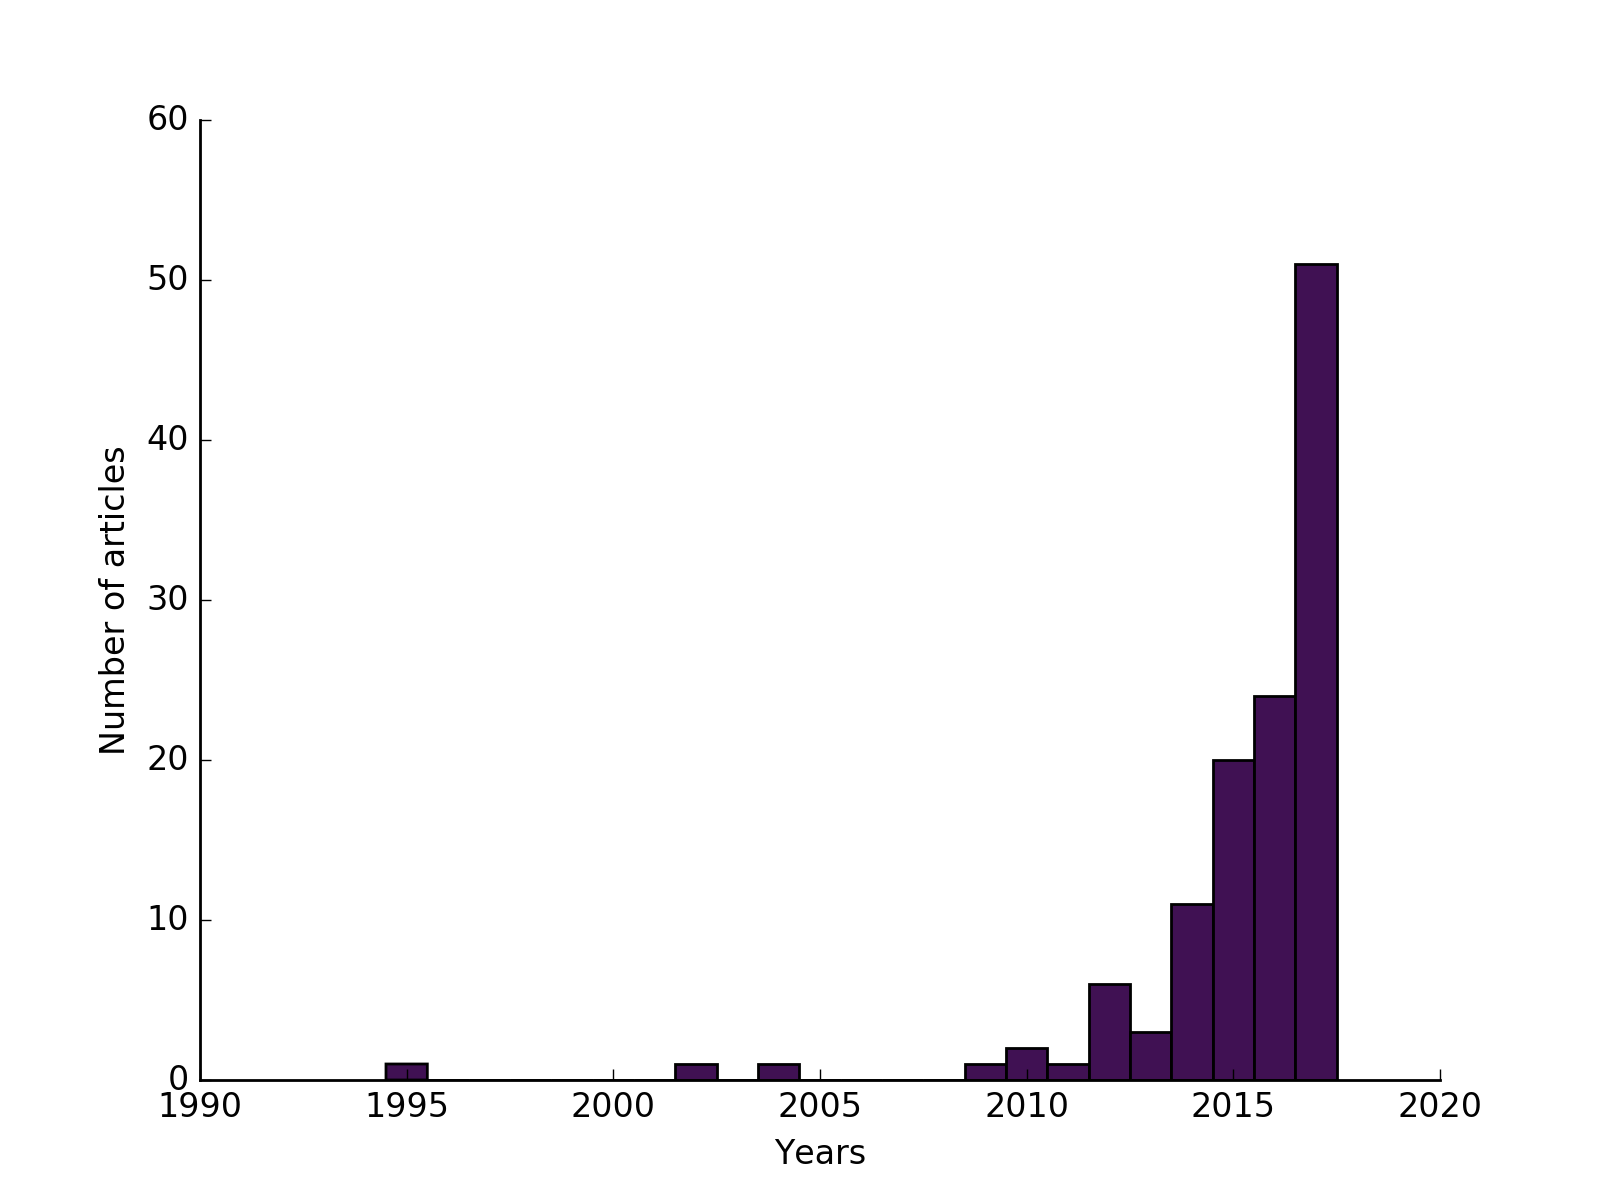
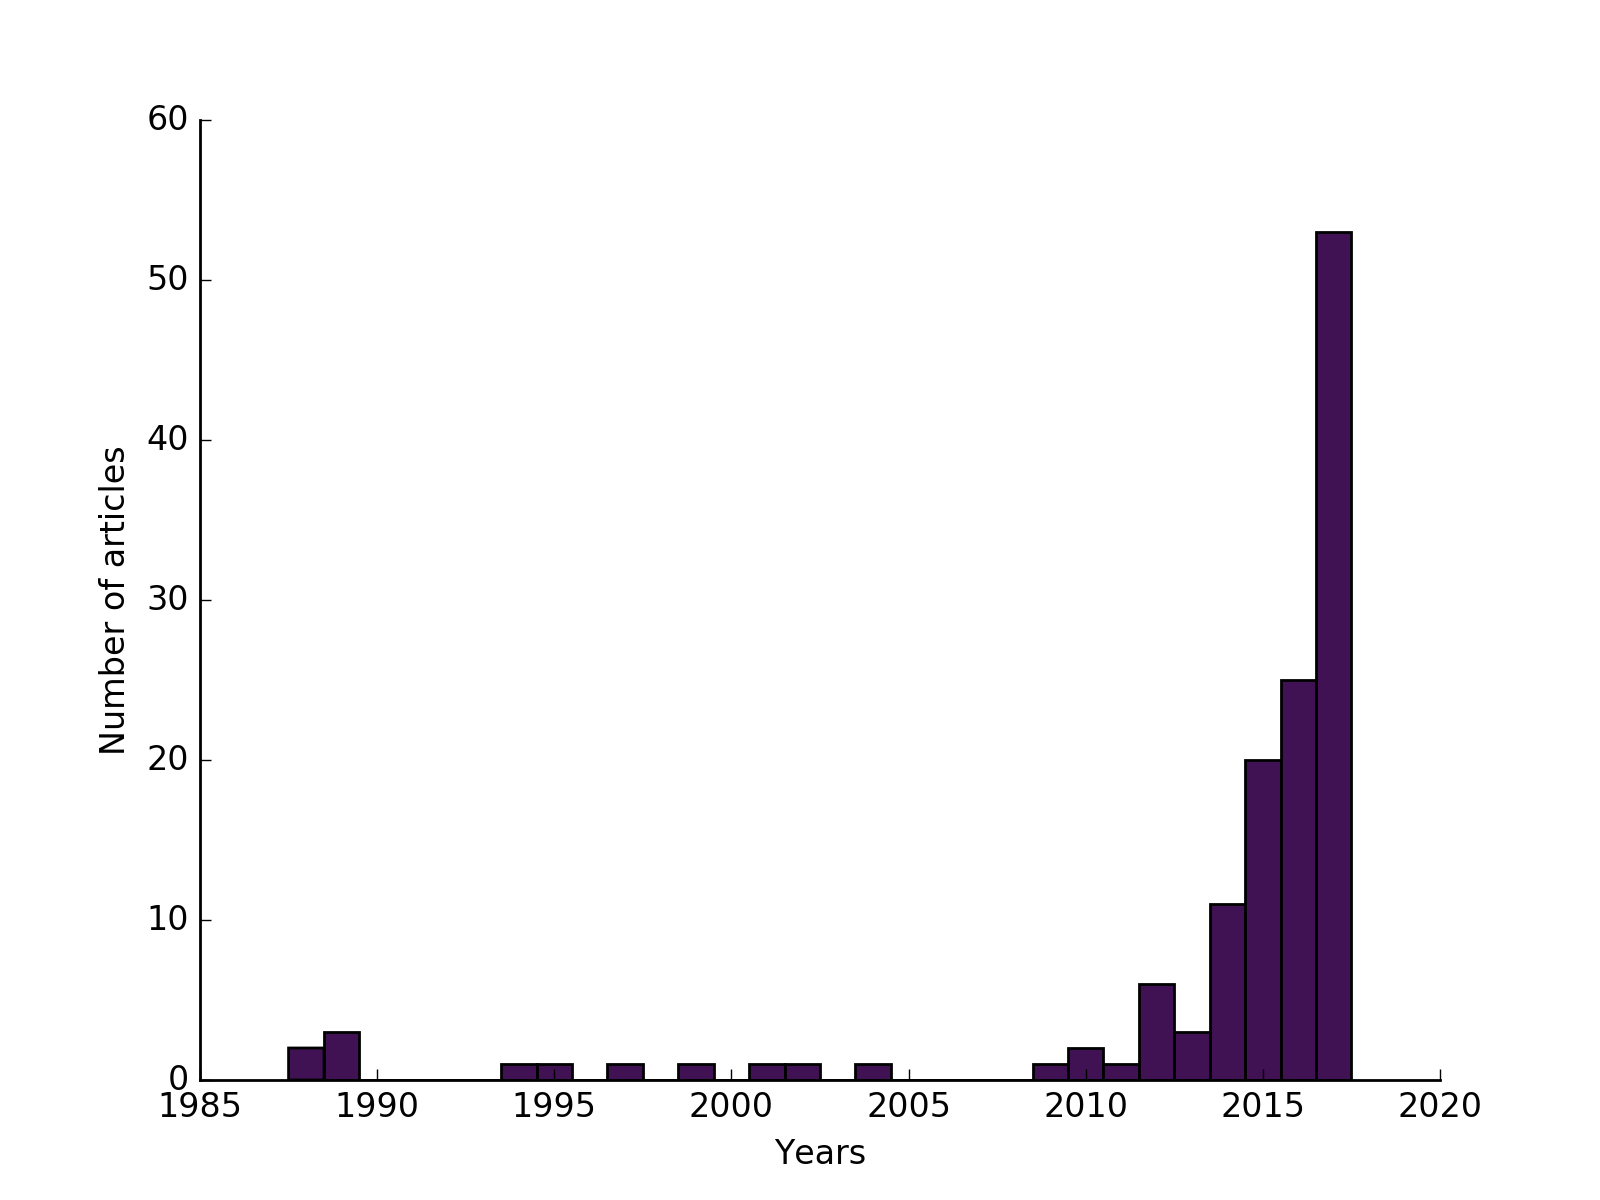
Added 12 ref

diff --git a/README.md b/README.md
@@ -39,6 +39,7 @@ However, these surveys do not cover music information retrieval tasks that are i
 | [Basic Filters for Convolutional Neural Networks: Training or Design?](https://arxiv.org/pdf/1709.02291.pdf) | No |
 | [Music signal processing using vector product neural networks](http://dorienherremans.com/dlm2017/papers/fan2017vector.pdf) | No |
 | [Transforming musical signals through a genre classifying convolutional neural network](http://dorienherremans.com/dlm2017/papers/geng2017genre.pdf) | No |
+| [Audio to score matching by combining phonetic and duration information](https://arxiv.org/pdf/1707.03547.pdf) | [GitHub](https://github.com/ronggong/jingjuSingingPhraseMatching/tree/v0.1.0) |
 | [Interactive music generation with positional constraints using anticipation-RNNs](https://arxiv.org/pdf/1709.06404.pdf) | No |
 | [Deep rank-based transposition-invariant distances on musical sequences](https://arxiv.org/pdf/1709.00740.pdf) | No |
 | [GLSR-VAE: geodesic latent space regularization for variational autoencoder architectures](https://arxiv.org/pdf/1707.04588.pdf) | No |
@@ -60,6 +61,7 @@ However, these surveys do not cover music information retrieval tasks that are i
 | [A deep multimodal approach for cold-start music recommendation](https://arxiv.org/pdf/1706.09739.pdf) | [GitHub](https://github.com/sergiooramas/tartarus) |
 | [Melody extraction and detection through LSTM-RNN with harmonic sum loss](http://ieeexplore.ieee.org/abstract/document/7952660/) | |
 | [Toward inverse control of physics-based sound synthesis](http://dorienherremans.com/dlm2017/papers/pfalz2017synthesis.pdf) | No |
+| [Score-informed syllable segmentation for a capella singing voice with convolutional neural networks](https://arxiv.org/pdf/1707.03544.pdf) | [GitHub](https://github.com/ronggong/jingjuSyllabicSegmentaion/tree/v0.1.0) |
 | [Timbre analysis of music audio signals with convolutional neural networks](https://arxiv.org/pdf/1703.06697.pdf) | [GitHub](https://github.com/jordipons/EUSIPCO2017) |
 | [Designing efficient architectures for modeling temporal features with convolutional neural networks](http://ieeexplore.ieee.org/document/7952601/) | [GitHub](https://github.com/jordipons/ICASSP2017) |
 | [Deep learning for event detection, sequence labelling and similarity estimation in music signals](http://ofai.at/~jan.schlueter/pubs/phd/phd.pdf) | No |
@@ -90,6 +92,7 @@ However, these surveys do not cover music information retrieval tasks that are i
 | [Event localization in music auto-tagging](http://mac.citi.sinica.edu.tw/~yang/pub/liu16mm.pdf) | [GitHub](https://github.com/ciaua/clip2frame) |
 | [Deep convolutional networks on the pitch spiral for musical instrument recognition](https://github.com/lostanlen/ismir2016/blob/master/paper/lostanlen_ismir2016.pdf) | |
 | [Robust audio event recognition with 1-max pooling convolutional neural networks](https://arxiv.org/pdf/1604.06338.pdf) | No |
+| [Experimenting with musically motivated convolutional neural networks](https://publik.tuwien.ac.at/files/publik_255991.pdf) | [GitHub](https://github.com/jordipons/CBMI2016) |
 | [Singing voice melody transcription using deep neural networks](https://wp.nyu.edu/ismir2016/wp-content/uploads/sites/2294/2016/07/163_Paper.pdf) | |
 | [Singing voice separation using deep neural networks and F0 estimation](http://www.music-ir.org/mirex/abstracts/2016/RSGP1.pdf) | [Website](http://cvssp.org/projects/maruss/mirex2016/) |
 | [Learning to pinpoint singing voice from weakly labeled examples](http://www.ofai.at/~jan.schlueter/pubs/2016_ismir.pdf) | |
@@ -144,7 +147,16 @@ However, these surveys do not cover music information retrieval tasks that are i
 | [Unsupervised feature learning for audio classification using convolutional deep belief networks](http://papers.nips.cc/paper/3674-unsupervised-feature-learning-for-audio-classification-using-convolutional-deep-belief-networks.pdf) | No |
 | [A convolutional-kernel based approach for note onset detection in piano-solo audio signals](http://www.murase.nuie.nagoya-u.ac.jp/~ide/res/paper/E04-conference-pablo-1.pdf) | |
 | [A supervised learning approach to musical style recognition](https://www.researchgate.net/profile/Giuseppe_Buzzanca/publication/228588086_A_supervised_learning_approach_to_musical_style_recognition/links/54b43ee90cf26833efd0109f.pdf) | |
+| [Multi-phase learning for jazz improvisation and interaction](http://www.cs.smith.edu/~jfrankli/papers/CtColl01.pdf) | No |
+| [Musical networks: Parallel distributed perception and performance](https://s3.amazonaws.com/academia.edu.documents/3551783/10.1.1.39.6248.pdf?AWSAccessKeyId=AKIAIWOWYYGZ2Y53UL3A&Expires=1507055806&Signature=5mGzQc7bvJgUZYfXOmCX8eeNQOs%3D&response-content-disposition=inline%3B%20filename%3DMusical_networks_Parallel_distributed_pe.pdf) | No |
+| [A machine learning approach to musical style recognition](http://repository.cmu.edu/cgi/viewcontent.cgi?article=1496&context=compsci) | No |
 | [Neural network based model for classification of music type](http://ieeexplore.ieee.org/abstract/document/514161/) | No |
+| [Neural network music composition by prediction: Exploring the benefits of psychophysical constraints and multiscale processing](http://www-labs.iro.umontreal.ca/~pift6080/H09/documents/papers/mozer-music.pdf) | No |
+| [The Representation of Pitch in a Neural Net Model of Chord Classification](https://www.jstor.org/stable/3679550) | No |
+| [Algorithms for music composition by neural nets: Improved cbr paradigms]("https://quod.lib.umich.edu/cache//b/b/p/bbp2372.1989.044/bbp2372.1989.044.pdf#page=1;zoom=75") | No |
+| [A connectionist approach to algorithmic composition](https://www.jstor.org/stable/3679551) | No |
+| [Creation by refinement: a creativity paradigm for gradient descent learning networks](http://ieeexplore.ieee.org/document/23933/) | No |
+| [A sequential network design for musical applications]() | |
 
 ## DL4M details
 
@@ -174,7 +186,7 @@ However, these surveys do not cover music information retrieval tasks that are i
 
 ## Statistics and visualisations
 
-- 122 articles currently referenced.
+- 134 articles currently referenced.
 - Number of articles per year:
 ![Number of articles per year](fig/articles_per_year.png)
 

diff --git a/sources.md b/sources.md
@@ -5,17 +5,19 @@ The list of conferences, journals and aggregators used to gather the proposed ma
 ## Journals
 
 - [Applied Sciences Special Issue on Sound and Music Computing](http://www.mdpi.com/journal/applsci/special_issues/Music_Computing)
+- [CMJ](https://www.jstor.org/journal/computermusicj) - Computer Music Journal
 - [JCMS](http://jcms.org.uk/) - Journal of Creative Music Systems
 
 ## Conferences
 
 - [CSMC](https://csmc2016.wordpress.com/) - Conference on Computer Simulation of Musical Creativity
 - [ICASSP](http://ieeexplore.ieee.org/xpl/conhome.jsp?punumber=1000002) - IEEE International Conference on Acoustics, Speech, and Signal Processing
+- [ICMC](http://www.computermusic.org/) - International Computer Music Conference
 - [ICML](https://2017.icml.cc/) - International Conference on Machine Learning
 - [INTERSPEECH](http://www.isca-speech.org/iscaweb/)
 - [ISMIR](http://ismir.net/) - International Society for Music Information Retrieval
 - [LVA/ICA](http://lva-ica-2017.com/index.php/aim) - International Conference on Latent Variable Analysis and Signal Separation
-- [MIREX](http://music-ir.org/mirex/wiki/MIREX_HOME)
+- [MIREX](http://music-ir.org/mirex/wiki/MIREX_HOME) - Music Information Retrieval Evaluation eXchange
 - [RECSYS](https://recsys.acm.org/) - ACM Recommender Systems conference
 - [SMC](http://www.smc-conference.org/) - Sound and Music Computing Conference
 

diff --git a/acronyms.md b/acronyms.md
@@ -22,11 +22,13 @@ A list of useful acronyms used in deep learning and music sorted alphabetically.
 | FCN | Fully Convolutional Network |
 | FC-CNN | Fully Convolutional Convolutional Neural Network |
 | FC-LSTM | Fully Connected Long Short-Term Memory |
+| GFNN | Gradient Frequency Neural Networks |
 | GBRCN | Gradient-Boosting Random Convolutional Network |
 | LSTM | Long Short-Term Memory |
 | MER | Music Emotion Recognition |
 | MLP | Multi-Layer Perceptron |
 | MSDAE | Modified Sparse Denoising Autoencoder |
+| MSR | Music Style Recognition |
 | NN | Neural Network |
 | PReLU | Parametric Rectified Linear Unit |
 | RANSAC | RANdom SAmple Concesus |

diff --git a/CODE_OF_CONDUCT.md b/CODE_OF_CONDUCT.md
@@ -43,4 +43,4 @@ Project maintainers who do not follow or enforce the Code of Conduct in good fai
 This Code of Conduct is adapted from the [Contributor Covenant][homepage], version 1.4, available at [http://contributor-covenant.org/version/1/4][version]
 
 [homepage]: http://contributor-covenant.org
-[version]: http://contributor-covenant.org/version/1/4/
+[version]: http://contributor-covenant.org/version/1/4/ 
